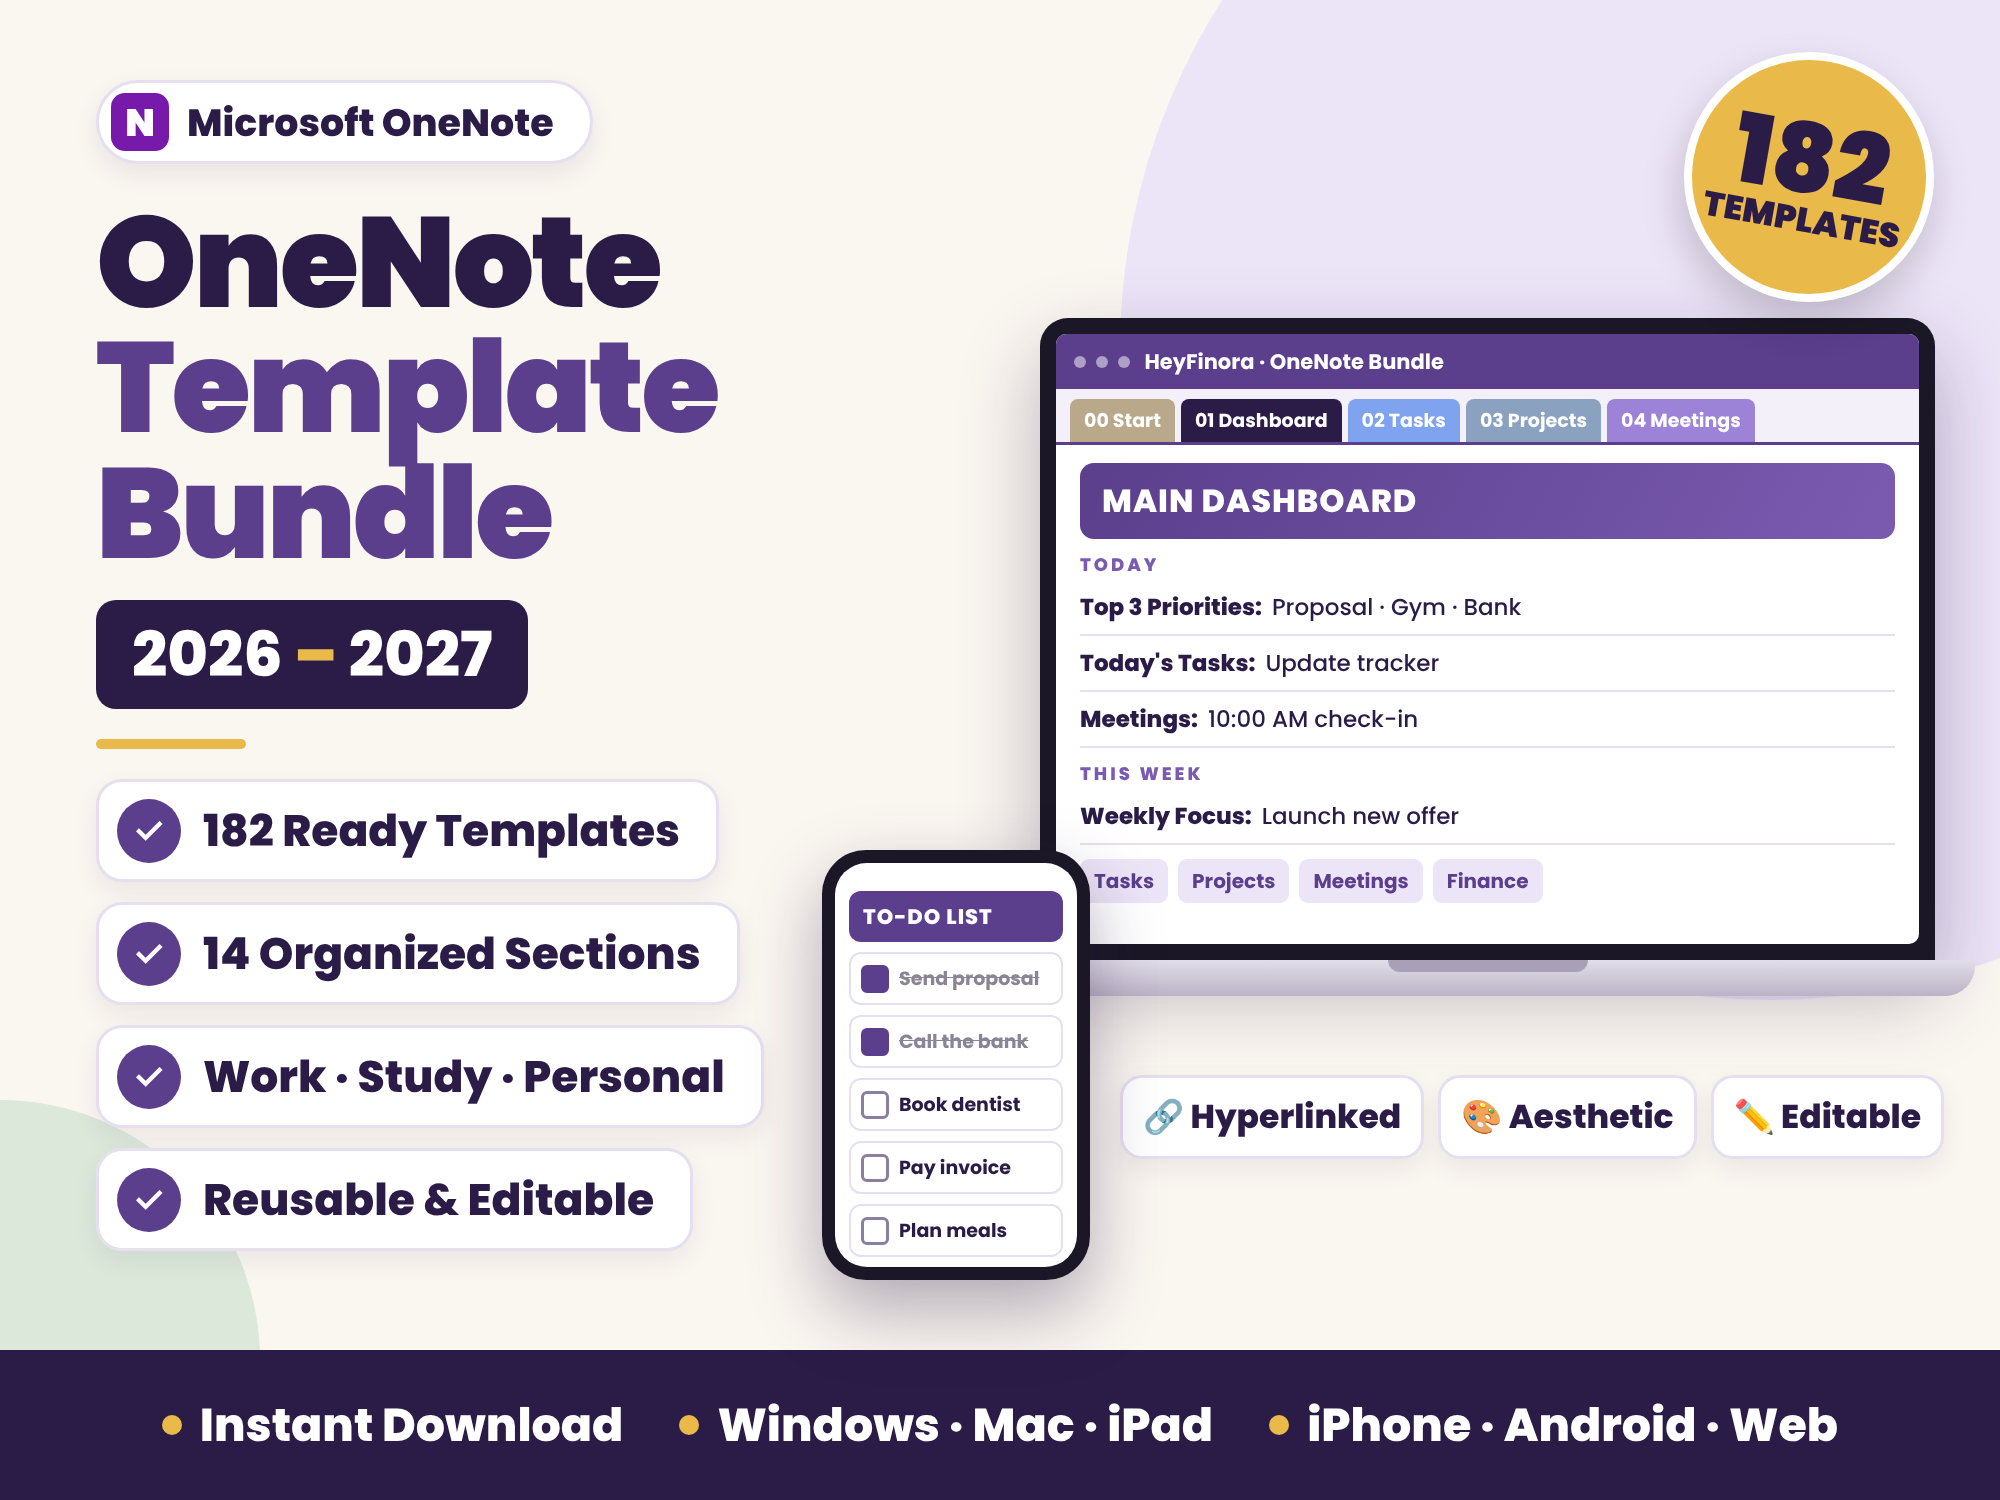
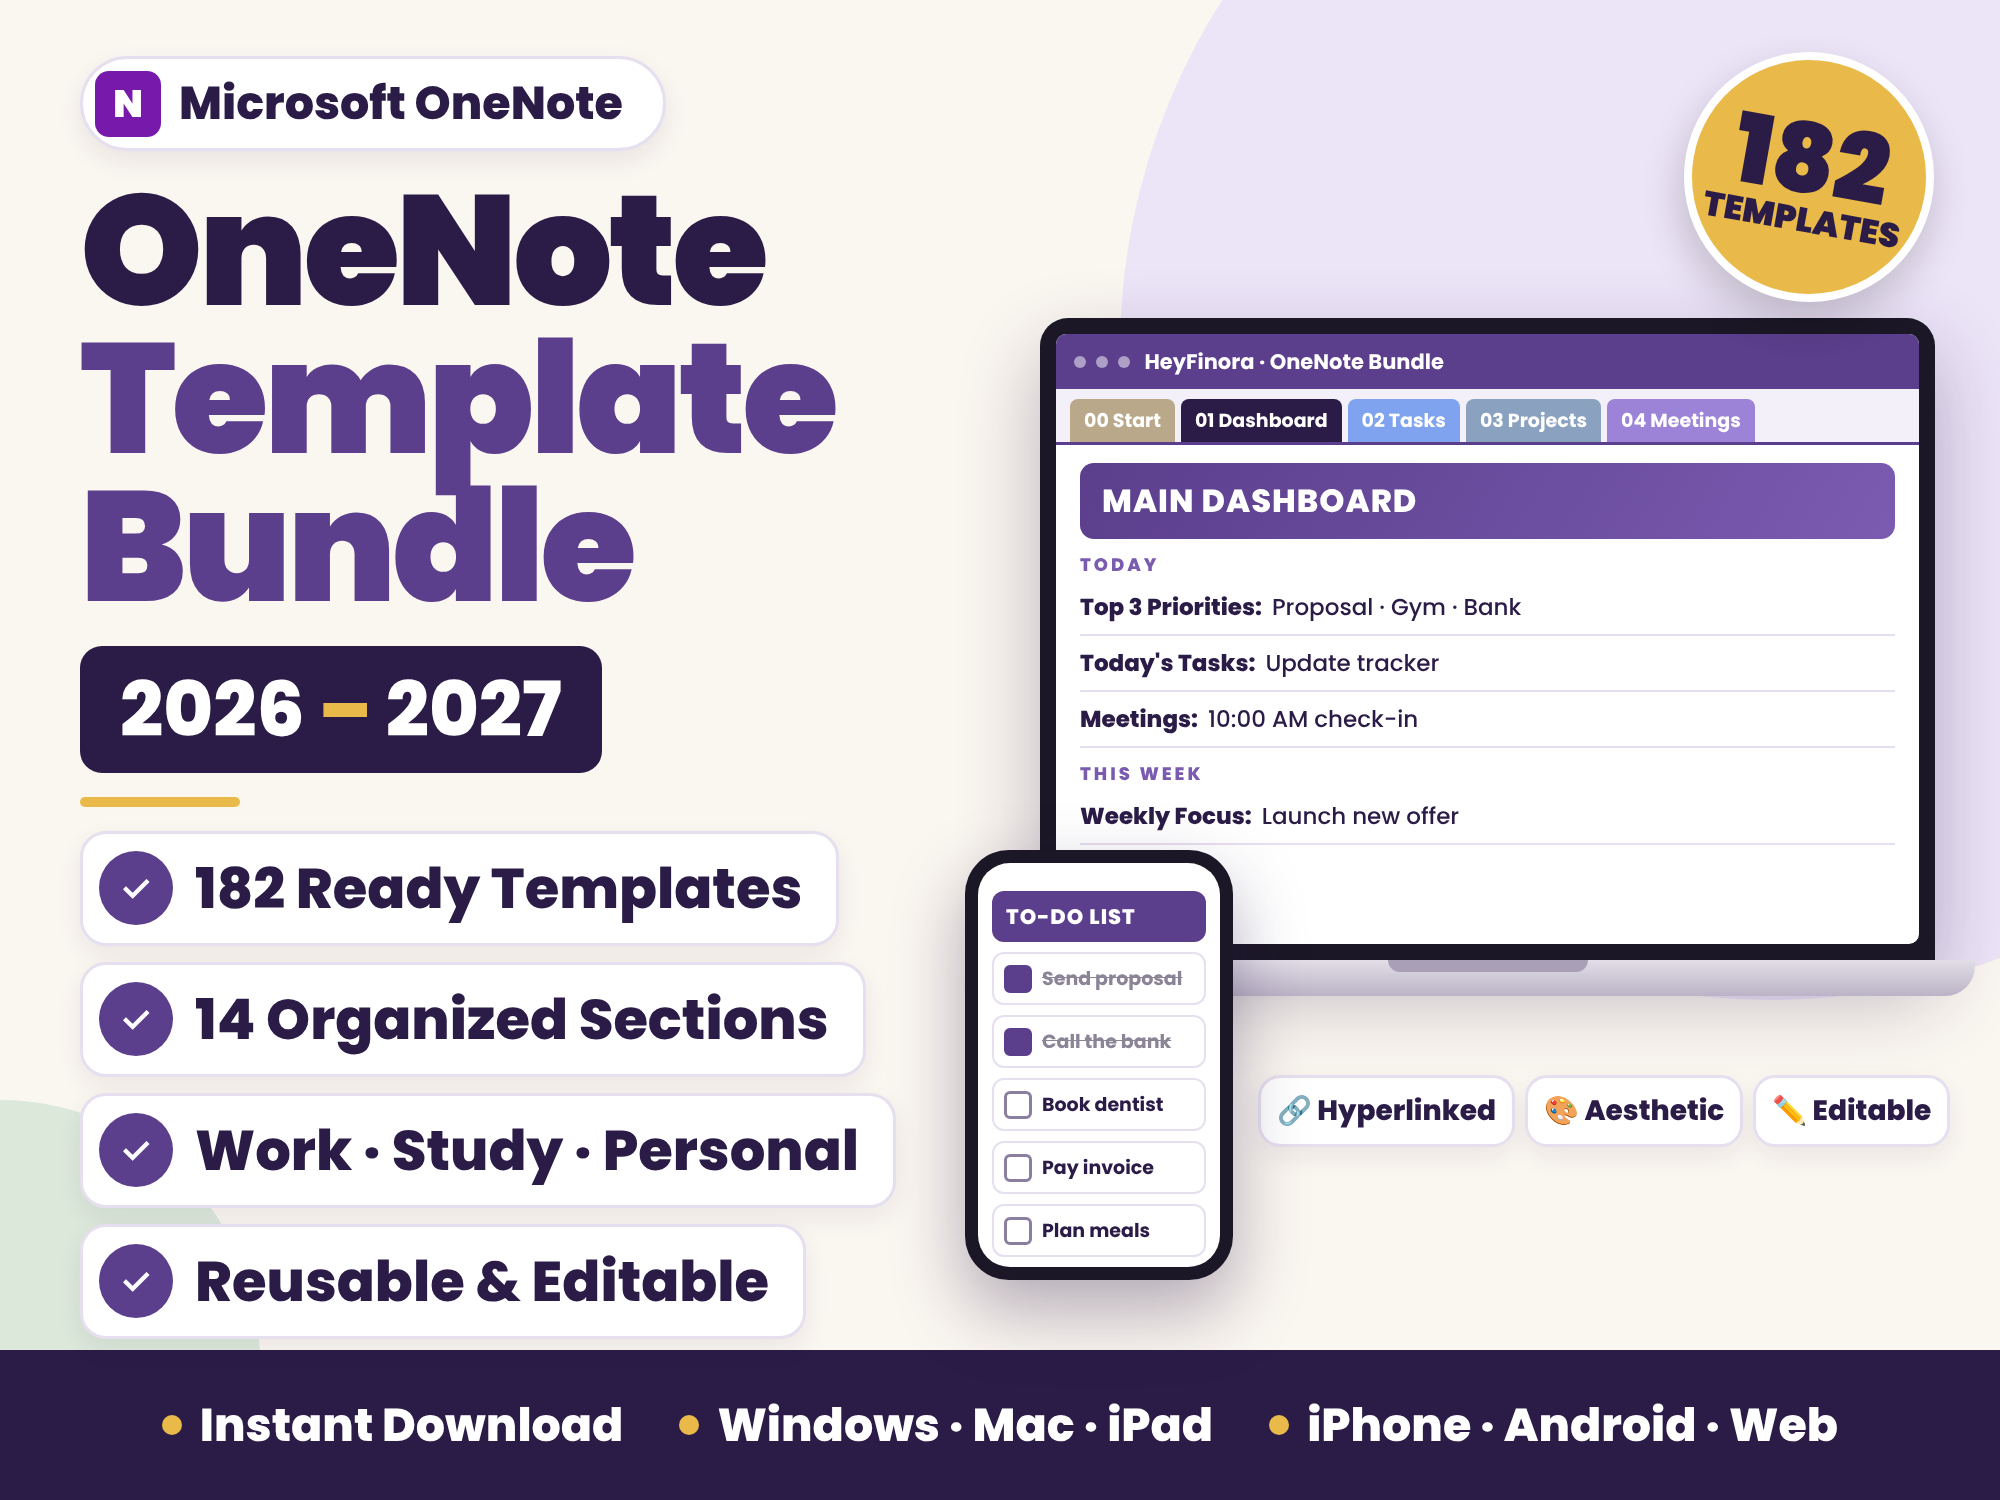
OneNote Bundle v2 thumbnail: much larger left-side text
Claude-Session: https://claude.ai/code/session_01JXSyMovszCbL9FMwkaUbGU

Changed region(s): [[0.031, 0.0307, 0.961, 0.8893]]

diff --git a/images/src/onenote-bundle-v2-thumbnail.html b/images/src/onenote-bundle-v2-thumbnail.html
@@ -7,16 +7,16 @@
 body{background:#777;font-family:Poppins,sans-serif;color:var(--ink)}
 #thumb{width:2000px;height:1500px;position:relative;overflow:hidden;background:var(--cream)}
 .blob{position:absolute;border-radius:50%}
-.left{position:absolute;left:96px;top:80px;width:900px;z-index:3}
-.badge{display:inline-flex;align-items:center;gap:18px;background:#fff;border:3px solid var(--line);border-radius:999px;padding:10px 36px 10px 12px;font-weight:800;font-size:38px;box-shadow:0 10px 26px rgba(42,27,71,.08)}
-.badge i{font-style:normal;width:58px;height:58px;border-radius:14px;background:var(--on);color:#fff;display:grid;place-items:center;font-weight:900;font-size:38px}
-h1{font-weight:900;font-size:128px;line-height:.98;letter-spacing:-3px;margin-top:36px}
+.left{position:absolute;left:80px;top:56px;width:960px;z-index:3}
+.badge{display:inline-flex;align-items:center;gap:18px;background:#fff;border:3px solid var(--line);border-radius:999px;padding:10px 40px 10px 12px;font-weight:800;font-size:46px;box-shadow:0 10px 26px rgba(42,27,71,.08)}
+.badge i{font-style:normal;width:66px;height:66px;border-radius:14px;background:var(--on);color:#fff;display:grid;place-items:center;font-weight:900;font-size:38px}
+h1{font-weight:900;font-size:156px;line-height:.95;letter-spacing:-4px;margin-top:26px}
 h1 span{color:var(--plum)}
-.yrs{display:inline-block;margin-top:24px;background:var(--ink);color:#fff;font-weight:800;font-size:62px;padding:8px 36px;border-radius:20px}.yrs b{color:var(--gold)}
-.bar{width:150px;height:10px;background:var(--gold);border-radius:6px;margin:30px 0}
-.feats{display:flex;flex-direction:column;gap:20px}
-.f{display:flex;align-items:center;gap:22px;background:#fff;border:3px solid var(--line);border-radius:26px;padding:16px 36px 16px 18px;width:max-content;font-weight:800;font-size:44px;box-shadow:0 10px 26px rgba(42,27,71,.07)}
-.f em{font-style:normal;width:64px;height:64px;border-radius:50%;background:var(--plum);color:#fff;display:grid;place-items:center;font-size:36px;flex:none}
+.yrs{display:inline-block;margin-top:24px;background:var(--ink);color:#fff;font-weight:800;font-size:76px;padding:6px 40px;border-radius:22px}.yrs b{color:var(--gold)}
+.bar{width:160px;height:10px;background:var(--gold);border-radius:6px;margin:24px 0}
+.feats{display:flex;flex-direction:column;gap:16px}
+.f{display:flex;align-items:center;gap:22px;background:#fff;border:3px solid var(--line);border-radius:26px;padding:12px 34px 12px 16px;width:max-content;font-weight:800;font-size:56px;box-shadow:0 10px 26px rgba(42,27,71,.07)}
+.f em{font-style:normal;width:74px;height:74px;border-radius:50%;background:var(--plum);color:#fff;display:grid;place-items:center;font-size:36px;flex:none}
 .seal{position:absolute;right:66px;top:52px;width:250px;height:250px;border-radius:50%;background:var(--gold);border:8px solid #fff;display:grid;place-items:center;text-align:center;transform:rotate(10deg);box-shadow:0 18px 40px rgba(0,0,0,.18);z-index:5}
 .seal b{font-weight:900;font-size:96px;line-height:.9;display:block}.seal span{font-weight:900;font-size:34px;line-height:1;display:block}
 /* laptop */
@@ -35,15 +35,15 @@ h1 span{color:var(--plum)}
 .sec{font-weight:800;font-size:18px;letter-spacing:3px;color:var(--plum2);margin:12px 0 2px}
 .lk{display:flex;gap:10px;margin-top:14px}.lk span{background:var(--lilac);color:var(--plum);font-weight:700;font-size:20px;padding:7px 14px;border-radius:9px}
 /* phone */
-.phone{position:absolute;left:822px;top:850px;width:268px;height:430px;background:#1b1726;border-radius:44px;padding:13px;box-shadow:0 30px 70px rgba(42,27,71,.35);z-index:4}
+.phone{position:absolute;left:965px;top:850px;width:268px;height:430px;background:#1b1726;border-radius:44px;padding:13px;box-shadow:0 30px 70px rgba(42,27,71,.35);z-index:4}
 .ps{background:#fff;border-radius:32px;height:100%;padding:28px 14px 14px}
 .ps .h{background:var(--plum);color:#fff;border-radius:12px;padding:10px 14px;font-weight:800;font-size:21px;letter-spacing:1px}
 .ck{display:flex;align-items:center;gap:10px;border:2px solid var(--line);border-radius:12px;padding:10px;margin-top:10px;font-weight:700;font-size:19px}
 .ck:before{content:"";width:22px;height:22px;border:3px solid #8a7fa0;border-radius:6px;flex:none}
 .ck.d:before{background:var(--plum);border-color:var(--plum)}.ck.d{color:#8b8497;text-decoration:line-through}
 /* chips */
-.chips{position:absolute;left:1120px;top:1075px;display:flex;gap:14px;z-index:3}
-.chips span{white-space:nowrap;background:#fff;border:3px solid var(--line);border-radius:22px;padding:14px 20px;font-weight:800;font-size:33px;box-shadow:0 10px 26px rgba(42,27,71,.07)}
+.chips{position:absolute;left:1258px;top:1075px;display:flex;gap:10px;z-index:3}
+.chips span{white-space:nowrap;background:#fff;border:3px solid var(--line);border-radius:22px;padding:12px 16px;font-weight:800;font-size:28px;box-shadow:0 10px 26px rgba(42,27,71,.07)}
 .strip{position:absolute;left:0;right:0;bottom:0;height:150px;background:var(--ink);display:flex;align-items:center;justify-content:center;gap:56px;color:#fff;font-weight:800;font-size:46px}
 .strip span{display:flex;align-items:center;gap:18px}.strip i{width:20px;height:20px;border-radius:50%;background:var(--gold);display:block}
 </style></head><body>
@@ -77,7 +77,7 @@ h1 span{color:var(--plum)}
       <div class="r"><b>Meetings:</b>10:00 AM check-in</div>
       <div class="sec">THIS WEEK</div>
       <div class="r"><b>Weekly Focus:</b>Launch new offer</div>
-      <div class="lk"><span>Tasks</span><span>Projects</span><span>Meetings</span><span>Finance</span></div>
+      
     </div>
   </div></div><div class="base"></div></div>
 
